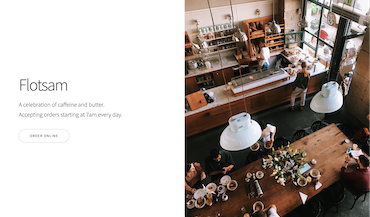
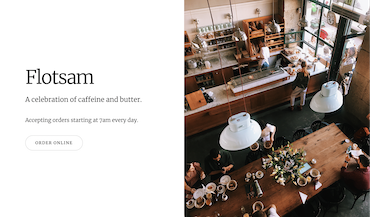
Change colors, update portfolio order

diff --git a/assets/css/main.css b/assets/css/main.css
@@ -83,7 +83,7 @@ input, select, textarea {
 	}
 
 	body {
-		background: #fff;
+		background: rgb(245, 242, 232);
 	}
 
 		body.is-preload *, body.is-preload *:before, body.is-preload *:after {
@@ -98,8 +98,8 @@ input, select, textarea {
 		}
 
 	body, input, select, textarea {
-		color: #a2a2a2;
-		font-family: "Source Sans Pro", Helvetica, sans-serif;
+		color: #939393;
+		font-family: "Catamaran", Helvetica, sans-serif;
 		font-size: 16pt;
 		font-weight: 400;
 		line-height: 1.75em;
@@ -111,18 +111,18 @@ input, select, textarea {
 		-ms-transition: color 0.2s ease-in-out, border-color 0.2s ease-in-out;
 		transition: color 0.2s ease-in-out, border-color 0.2s ease-in-out;
 		border-bottom: dotted 1px;
-		color: #49bf9d;
+		color: #5fbee6;
 		text-decoration: none;
 	}
 
 		a:hover {
 			border-bottom-color: transparent;
-			color: #49bf9d !important;
+			color: #0380b6 !important;
 			text-decoration: none;
 		}
 
 	strong, b {
-		color: #787878;
+		color: #717171;
 		font-weight: 400;
 	}
 
@@ -135,7 +135,7 @@ input, select, textarea {
 	}
 
 	h1, h2, h3, h4, h5, h6 {
-		color: #787878;
+		color: #717171;
 		font-weight: 400;
 		line-height: 1em;
 		margin: 0 0 1em 0;
@@ -1841,7 +1841,7 @@ input, select, textarea {
 		input[type="email"]:focus,
 		select:focus,
 		textarea:focus {
-			border-color: #49bf9d;
+			border-color: #0380b6;
 		}
 
 	select {
@@ -1946,7 +1946,7 @@ input, select, textarea {
 
 		input[type="checkbox"]:focus + label:before,
 		input[type="radio"]:focus + label:before {
-			border-color: #49bf9d;
+			border-color: #0380b6;
 		}
 
 	input[type="checkbox"] + label:before {
@@ -1981,7 +1981,7 @@ input, select, textarea {
 
 	.box {
 		border-radius: 0.35em;
-		border: solid 2px #efefef;
+		border: solid 2px #cdcdcd;
 		margin-bottom: 2em;
 		padding: 1.5em;
 	}
@@ -2174,7 +2174,7 @@ input, select, textarea {
 		}
 
 			ul.alt li {
-				border-top: solid 2px #efefef;
+				border-top: solid 2px #cdcdcd;
 				padding: 0.5em 0;
 			}
 
@@ -2445,7 +2445,7 @@ input, select, textarea {
 		transition: background-color 0.2s ease-in-out, color 0.2s ease-in-out, border-color 0.2s ease-in-out;
 		background-color: transparent;
 		border-radius: 0.35em;
-		border: solid 3px #efefef;
+		border: solid 3px #cdcdcd;
 		color: #787878 !important;
 		cursor: pointer;
 		display: inline-block;
@@ -2464,8 +2464,8 @@ input, select, textarea {
 		input[type="reset"]:hover,
 		input[type="button"]:hover,
 		.button:hover {
-			border-color: #49bf9d;
-			color: #49bf9d !important;
+			border-color: #0380b6;
+			color: #0380b6 !important;
 		}
 
 		input[type="submit"]:active,
@@ -2473,8 +2473,8 @@ input, select, textarea {
 		input[type="button"]:active,
 		.button:active {
 			background-color: rgba(73, 191, 157, 0.1);
-			border-color: #49bf9d;
-			color: #49bf9d !important;
+			border-color: #5fbee6;
+			color: #5fbee6 !important;
 		}
 
 		input[type="submit"].icon,
@@ -2689,7 +2689,7 @@ input, select, textarea {
 	}
 
 		#main > section {
-			border-top: solid 2px #efefef;
+			border-top: solid 2px #cdcdcd;
 			margin: 4em 0 0 0;
 			padding: 4em 0 0 0;
 		}

diff --git a/index.html b/index.html
@@ -9,6 +9,9 @@
 		<title>CP McClure</title>
 		<meta charset="utf-8" />
 		<meta name="viewport" content="width=device-width, initial-scale=1, user-scalable=no" />
+		<link rel="preconnect" href="https://fonts.googleapis.com">
+<link rel="preconnect" href="https://fonts.gstatic.com" crossorigin>
+<link href="https://fonts.googleapis.com/css2?family=Catamaran:wght@400;700&display=swap" rel="stylesheet">
 		<link rel="stylesheet" href="assets/css/main.css" />
 	</head>
 	<body class="is-preload">
@@ -54,7 +57,7 @@
 							<article class="col-6 col-12-xsmall work-item">
 								<a href="images/fulls/grandelixir.png" class="image fit thumb"><img src="images/thumbs/grandelixir.png" alt="" /></a>
 								<h3>Grand Elixir</h3>
-								<p>A craft cocktail bar mock website. <a href="https://grandelixir.netlify.app" target="_blank">View the page</a></p>
+								<p>A craft cocktail bar website. <a href="https://grandelixir.netlify.app" target="_blank">View the page</a></p>
 							</article>
 							<article class="col-6 col-12-xsmall work-item">
 								<a href="images/fulls/moneymakinggame.png" class="image fit thumb"><img src="images/thumbs/moneymakinggame.png" alt="" /></a>
